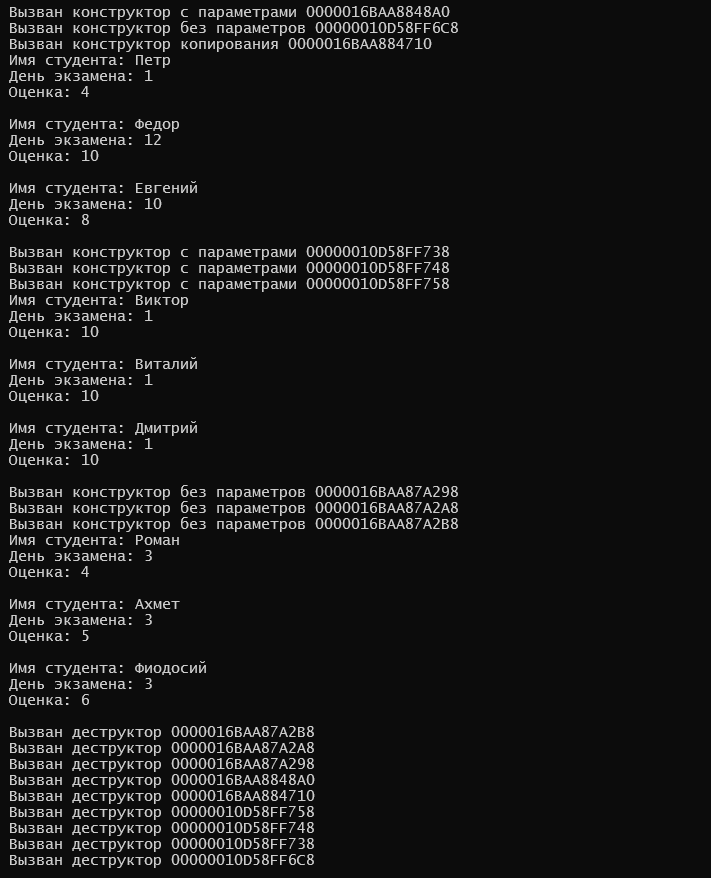
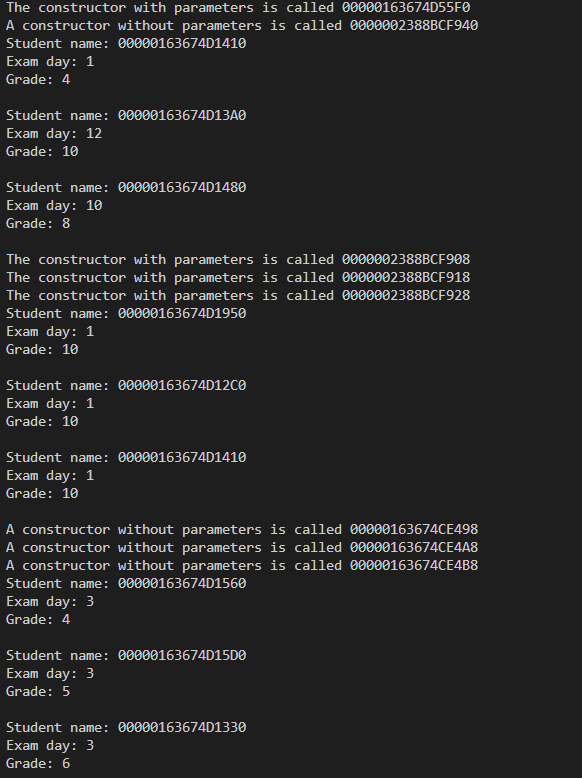
Delete copy constructor

Changed region(s): [[0.0, 0.0, 0.8351, 0.8021], [0.0, 0.8021, 0.4639, 0.9871]]

diff --git a/trunk/po0_220220/task_01/src/Exam.cpp b/trunk/po0_220220/task_01/src/Exam.cpp
@@ -1,21 +1,5 @@
 #include "Exam.h"
 
-Exam::Exam(const Exam &other)
-	: _date(other._date), _grade(other._grade)
-{
-	_studentName = std::make_unique<std::string>(*other._studentName);
-
-	std::cout << "The copy constructor is called " << this << std::endl;
-}
-
-Exam &Exam::operator=(const Exam &rhs)
-{
-	this->_studentName = std::make_unique<std::string>(*rhs._studentName);
-	this->_date = rhs._date;
-	this->_grade = rhs._grade;
-	return *this;
-}
-
 void Exam::SetName(const char *name)
 {
 	_studentName = std::make_unique<std::string>(name);
@@ -37,11 +21,6 @@ Exam::Exam(const char *name, const int date, const int grade)
 Exam::Exam()
 {
 	std::cout << "A constructor without parameters is called " << this << std::endl;
-}
-
-Exam::~Exam()
-{
-	std::cout << "Destructor called " << this << std::endl;
 }
 
 void Exam::Print() const

diff --git a/trunk/po0_220220/task_01/src/Exam.h b/trunk/po0_220220/task_01/src/Exam.h
@@ -12,8 +12,6 @@ class Exam
 public:
 	Exam();													 // Конструктор по умолчанию
 	Exam(const char *name, const int date, const int grade); // Конструктор с параметрами
-	Exam(const Exam &other);								 // Конструктор копирования
-	Exam &operator=(const Exam &rhs);
 
 	// Геттеры
 	std::string GetName() const { return *_studentName; };
@@ -27,9 +25,6 @@ public:
 	void Set(const char *name, int date, const int grade);
 
 	void Print() const;
-
-	// Деструктор
-	~Exam();
 
 private:
 	std::unique_ptr<std::string> _studentName;

diff --git a/trunk/po0_220220/task_01/src/main.cpp b/trunk/po0_220220/task_01/src/main.cpp
@@ -9,10 +9,8 @@ int main()
 
     auto a = std::make_unique<Exam>("Petr", 1, 4);
     Exam b;
-    auto c = std::make_shared<Exam>(*a);
 
-    auto ptr = c;
-    ptr->Print();
+    a->Print();
 
     b.SetDate(12);
     b.SetGrade(10);

diff --git a/trunk/po0_220220/task_01/readme.md b/trunk/po0_220220/task_01/readme.md
@@ -12,14 +12,6 @@
 
 ### Блоки с кодом реализации конструкторов и деструктора ###
 ```c++
-Exam::Exam(const Exam &other)
-	: _date(other._date), _grade(other._grade)
-{
-	_studentName = std::make_unique<std::string>(*other._studentName);
-
-	std::cout << "The copy constructor is called " << this << std::endl;
-}
-
 Exam::Exam(const char *name, const int date, const int grade)
 	: _studentName(std::make_unique<std::string>(name)), _date(date), _grade(grade)
 {
@@ -31,10 +23,6 @@ Exam::Exam()
 	std::cout << "A constructor without parameters is called " << this << std::endl;
 }
 
-Exam::~Exam()
-{
-	std::cout << "Destructor called " << this << std::endl;
-}
 ```
 
 ### Фрагмент программы, показывающий использование указателя на объект и указателя на функцию ###
@@ -42,11 +30,10 @@ Exam::~Exam()
 #### Указатель на объект ####
 
 ```c++
-auto ptr = c;
-ptr->Print();
+a->Print();
 ```
 
-#### В переменную ptr записывается адрес переменной с. Затем вызывается метод Print класса Exam. Метод выведет в консоль поля объекта с. ####
+#### В переменной а содержится адрес объекта. Затем вызывается метод Print класса Exam. Метод выведет в консоль поля объекта а. ####
 
 #### Указатель на функцию ####
 
